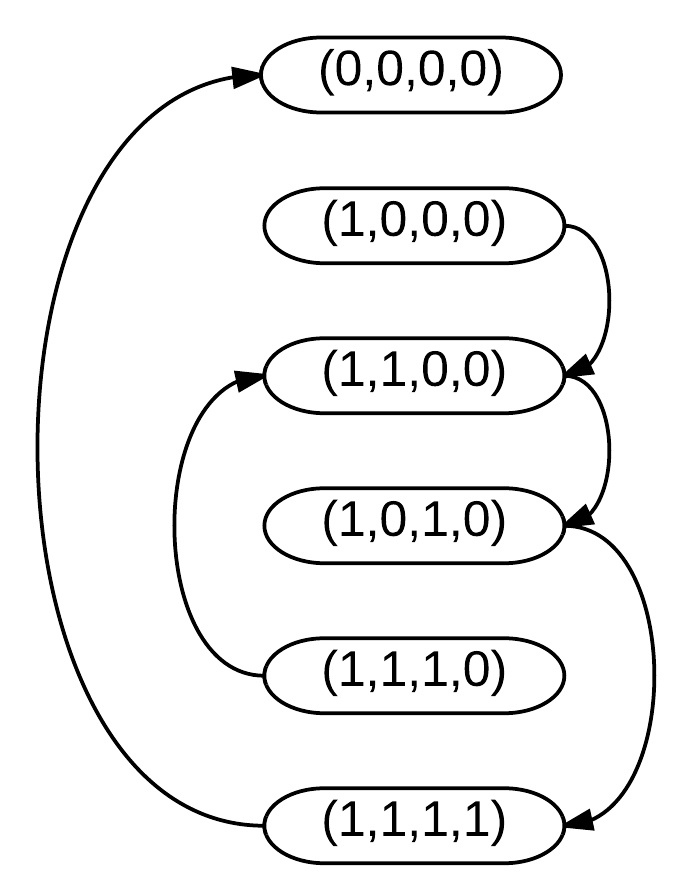
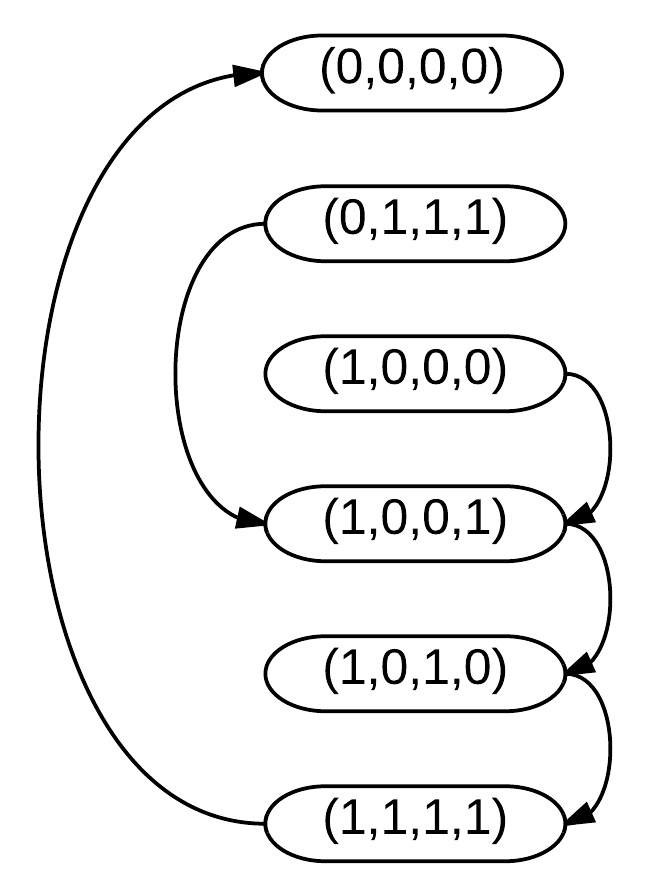
made updates to integer 4-game termination proof

diff --git a/number_squares/number_squares_paper.tex b/number_squares/number_squares_paper.tex
@@ -92,7 +92,7 @@ All games starting with $4$-tuples only containing $0$'s and $1$'s have length a
 \end{lemma}
 
 \begin{proof}
-Indeed there are $16$ $4$-tuples that contain only $0$'s and $1$'s. However, we only need to consider $6$ of them, namely $(0,0,0,0)$, $(1,0,0,0)$, $(1,1,0,0)$, $(1,0,1,0)$, $(1,1,1,0)$, $(1,1,1,1)$, since the other $10$ $4$-tuples can be obtained by appropriate rotation of one of these $6$. Based on our observation above that a rotation does not affect the length of a game, studying these $6$ $4$-tuples is sufficient.
+Indeed there are $16$ $4$-tuples that contain only $0$'s and $1$'s. However, we only need to consider $6$ of them, namely $(0,0,0,0)$, $(0,1,1,1)$, $(1,0,0,0)$, $(1,0,0,1)$, $(1,0,1,0)$, and $(1,1,1,1)$, since the other $10$ $4$-tuples can be obtained by appropriate rotation of one of these $6$. Based on our observation above that a rotation does not affect the length of a game, studying these $6$ $4$-tuples is sufficient.
 
 \begin{figure}
 \includegraphics{number_squares_0s_and_1s.png}
@@ -100,7 +100,7 @@ Indeed there are $16$ $4$-tuples that contain only $0$'s and $1$'s. However, we 
 \label{fig:zerosones}
 \end{figure}
 
-Figure \ref{fig:zerosones} shows a graph in which the nodes represent the $6$ $4$-tuples we are studying, and an edge from node $A$ to node $B$ indicates that the difference of $A$ is $B$. From this graph, it is clear that all of the $4$-tuples have finite length. Furthermore, the length is at most $4$ (length $4$ is achieved by $(1,0,0,0)$).
+Figure \ref{fig:zerosones} shows a graph in which the nodes represent the $6$ $4$-tuples we are studying, and an edge from node $A$ to node $B$ indicates that the difference of $A$ is $B$. From this graph, it is clear that all of the games have finite length. Furthermore, the maximum length of such a game is $4$ (length $4$ is achieved by $(0,1,1,1)$ and $(1,0,0,0)$).
 
 \end{proof}
 
@@ -112,10 +112,14 @@ For any $n \in \znn$, if four integer $a$, $b$, $c$, and $d$ are congruent to $0
 \end{lemma}
 
 \begin{proof}
-Since $a$, $b$, $c$, and $d$ are congruent to $0$ modulo $2^n$, each is congruent to either $0$ or $2^n$ modulo $2^{n+1}$. Now define $\hat{a}$ to be $0$ if $a$ is congruent to $0$ modulo $2^{n+1}$ or $1$ otherwise. Similarly define $\hat{b}$, $\hat{c}$, and $\hat{d}$. Now if we look at the game $(\hat{a},\hat{b},\hat{c},\hat{d})$, it precisely captures whether the corresponding elements in the corresponding 4-tuples in the game $(a,b,c,d)$ are congruent to $0$ or $2^n$ modulo $2^{n+1}$. By Lemma \ref{lem:evenodd}, we know that the game $(\hat{a},\hat{b},\hat{c},\hat{d})$ terminates at $(0,0,0,0)$ after at most $4$ steps, so we know that the elements in the game $(a,b,c,d)$ will be congruent to $0$ modulo $2^{n+1}$ after at most $4$ steps.
+Since $a$, $b$, $c$, and $d$ are congruent to $0$ modulo $2^n$, each is congruent to either $0$ or $2^n$ modulo $2^{n+1}$. Now define $\hat{a}$ to be $0$ if $a$ is congruent to $0$ modulo $2^{n+1}$ or $1$ otherwise. That is,
+$$
+\hat{a} = \frac{a \bmod{2^{n+1}}}{2^n}
+$$
+Similarly define $\hat{b}$, $\hat{c}$, and $\hat{d}$. Now if we look at the game $(\hat{a},\hat{b},\hat{c},\hat{d})$, it precisely captures whether the corresponding elements in the corresponding 4-tuples in the game $(a,b,c,d)$ are congruent to $0$ or $2^n$ modulo $2^{n+1}$. By Lemma \ref{lem:zerosones}, we know that the game $(\hat{a},\hat{b},\hat{c},\hat{d})$ terminates at $(0,0,0,0)$ after at most $4$ steps, so we know that the elements in the game $(a,b,c,d)$ will be congruent to $0$ modulo $2^{n+1}$ after at most $4$ steps.
 \end{proof}
 
-We can use this to make two conclusions that will prove our main result and also give an upper bound on the length of a game.
+We can use this to make two conclusions that will prove our main result and also give an upper bound on the length of any game.
 
 \begin{corollary}
 For any $n \in \znn$, the $4$-tuple $(a_{4n}, b_{4n}, c_{4n}, d_{4n})$ in the $(a,b,c,d)$ game has elements that are congruent to $0$ modulo $2^n$.
